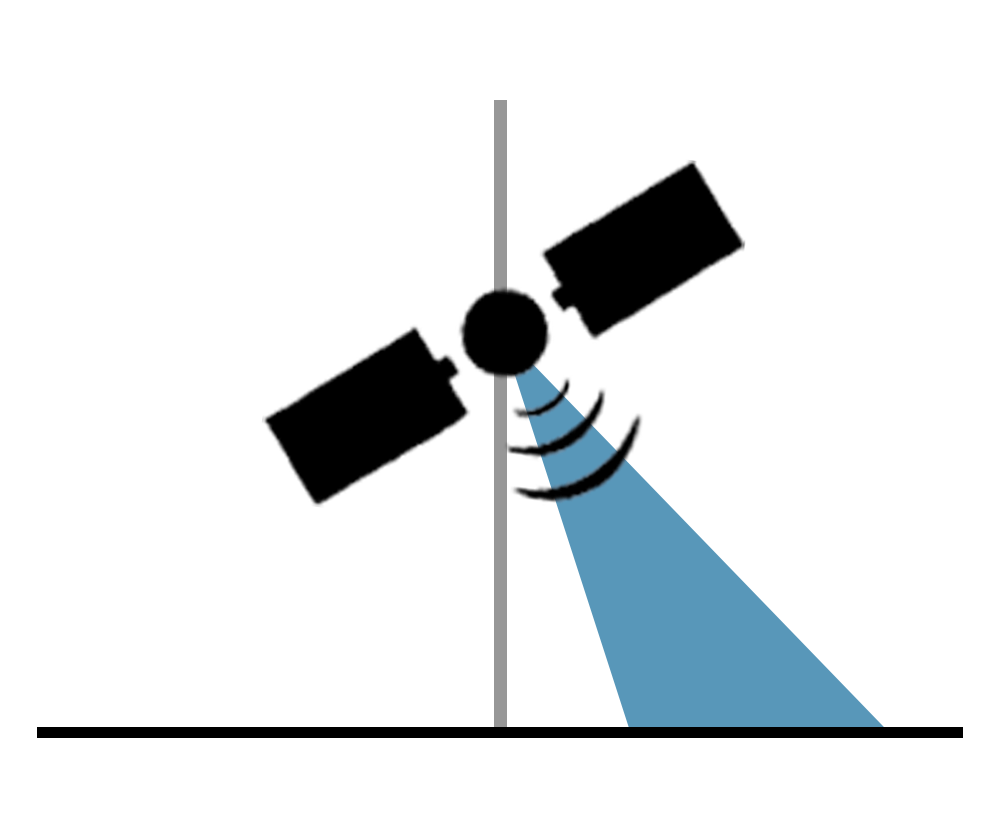
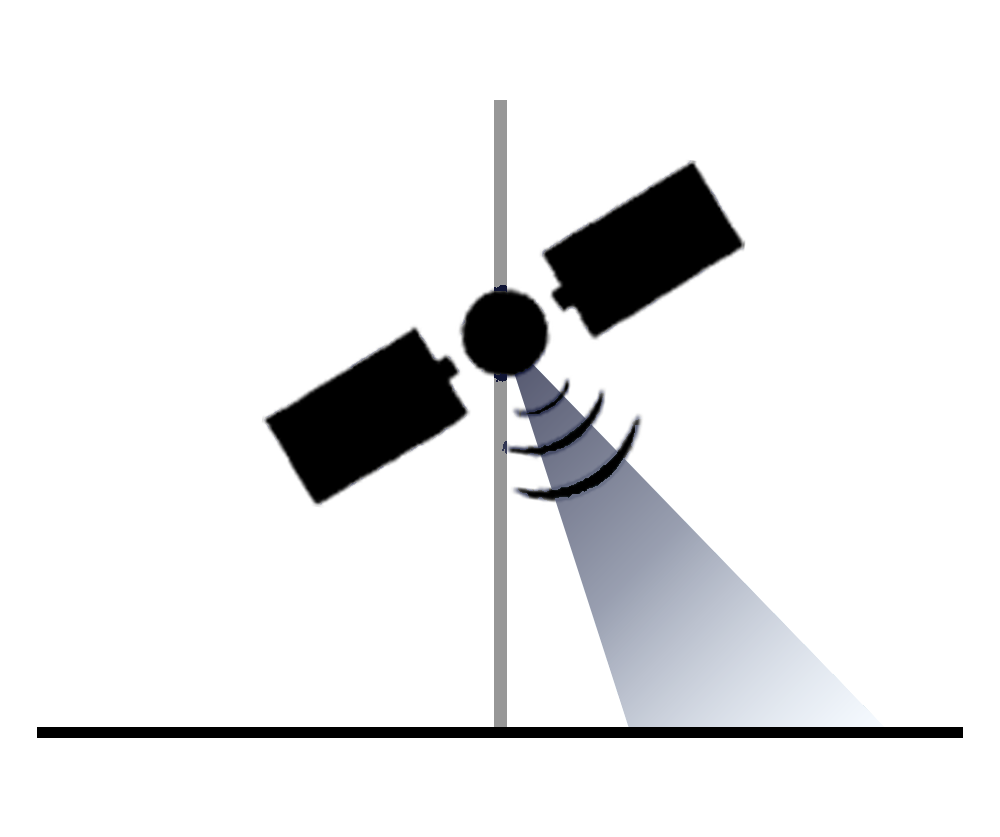
DISP :add color gradient to incidence angle satellite graphic

Changed region(s): [[0.496, 0.4349, 0.899, 0.8698]]

diff --git a/src/app/components/header/timeseries-header/timeseries-header.component.html b/src/app/components/header/timeseries-header/timeseries-header.component.html
@@ -44,8 +44,8 @@
               class="invert-icon"
               [class.flip-icon]="flightDesc"
               alt="Line of Site"
-              height="70"
-              width="84"
+              height="67"
+              width="80"
             />
           </span>
           <span class="line-of-site-icon-text">
